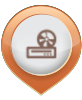
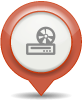
eugen_comback

diff --git a/js/60_drag-n-drop.js b/js/60_drag-n-drop.js
@@ -1,24 +1,48 @@
 define(['geomap', 'geoobjects', 'dialog', 'equipment'], function(L, objs, Dialog, Equipment){
-	$('a[data-eqgrp]').each(function(){
-	  //var li = $(this).parent()
-	  //var eqgrp = $(this).attr('data-eqgrp')
-	  //$(li).addClass('control-r-icon-link').addClass('control-r-icon-' + eqgrp) 
-	  $(this).draggable({helper: 'clone', appendTo: 'body', revert: true})
-	})
-    for(i in objs) if(i != 'view') setMap(L, i, objs, Dialog, Equipment)
-})
-
-function setMap(L, i, objs, Dialog, Equipment){
 	var Icon = L.Icon.extend({options:{
-		shadowUrl: '/img/markers/shadow.png',
+		shadowUrl: null,
 		iconSize     : [82, 100],
-		shadowSize   : [82, 15],
 		iconAnchor   : [41, 95],
-		shadowAnchor : [42, 48],
-		shadowSize   : [136, 54],
 		popupAnchor  : [0, -95]
 	  }
 	})
+    for(i in objs) if(i != 'view') setMap(L, i, objs, Dialog, Equipment, Icon)
+	$('a[data-eqgrp]').each(function(){
+	  $(this).draggable({helper: 'clone', appendTo: 'body', revert: true})
+	  $(this).dblclick(function(){
+		var page = $(this).parents('[data-role=page]')   
+		var id = $(page).attr('id').match('[a-z0-9]+$')[0]
+		var grp = $(this).attr('data-eqgrp')
+		var categ = $(this).attr('data-categ')
+		var map = objs[id].map
+		var latLng = map.getCenter()
+		setMarker(map, latLng, Equipment, Icon, categ, grp, L, objs, Dialog)
+		//var icon = new Icon({iconUrl: getIconPath('/markers/' + categ + '/' + grp) + '?inactive=true'})
+		//var marker = new L.Marker(latLng, {icon: icon,draggable: true}).addTo(map)
+	  })
+	})
+})
+
+function setMarker(map, latLng, Equipment, Icon, categ, grp, L, objs, Dialog){
+  var subPath = '/markers/' + categ + '/' + grp
+  var path = /open/.test(window.location.hostname) ? '/img' + subPath + '.png' : subPath	
+  var icon = new Icon({iconUrl: path + '?inactive=true'})
+  var activeIcon = new Icon({iconUrl: path})
+  if(!Equipment.markers) Equipment.markers = {}
+  if(!Equipment.markers[grp]) Equipment.markers[grp] = new L.LayerGroup().addTo(objs[i].map)
+  //var marker = new L.Marker(latLng, {icon: icon,draggable: true}).addTo(map)
+  var marker = new L.Marker(latLng, {icon: icon,draggable: true})
+  //marker.setActive = function(){
+  //  marker.setIcon(activeIcon)  
+  //}	  
+  Equipment.markers[grp].addLayer(marker)
+  marker.on('dblclick', function(){
+    if(marker.dialog){$(marker.dialog).dialog('open'); return}
+    Dialog(grp, objs[i], marker, activeIcon)
+  })
+}
+
+function setMap(L, i, objs, Dialog, Equipment, Icon){
 	var page = $('#page-' + i)
 	$(page).on('pageshow', function(){
 	    var mapDiv = $(page).find('.map-of-object')[0]
@@ -32,14 +56,17 @@ function setMap(L, i, objs, Dialog, Equipment){
 		  drop: function(ev, ui){
 		    if(!$(ui.helper).is('[data-eqgrp]')) return 
 			var grp = $(ui.helper).attr('data-eqgrp')
-			var categ = $(ui.helper).attr('data-categ')
 			loadWidgetsCss(grp)
-			if(!Equipment.markers) Equipment.markers = {}
-		    if(!Equipment.markers[grp]) Equipment.markers[grp] = new L.LayerGroup().addTo(objs[i].map)
-		    var icon = new Icon({iconUrl: '/markers/' + categ + '/' + grp})
-		    var marker = new L.Marker(objs[i].map.mouseEventToLatLng(ev), {icon: icon,draggable: true})
-		    Equipment.markers[grp].addLayer(marker)
-			Dialog(grp, objs[i], marker)
+			var categ = $(ui.helper).attr('data-categ')
+			var map = objs[i].map
+		    var latLng = map.mouseEventToLatLng(ev)
+		    setMarker(map, latLng, Equipment, Icon, categ, grp, L, objs, Dialog)
+			//if(!Equipment.markers) Equipment.markers = {}
+		    //if(!Equipment.markers[grp]) Equipment.markers[grp] = new L.LayerGroup().addTo(objs[i].map)
+		    //var icon = new Icon({iconUrl: '/markers/' + categ + '/' + grp})
+		    //var marker = new L.Marker(objs[i].map.mouseEventToLatLng(ev), {icon: icon,draggable: true})
+		    //Equipment.markers[grp].addLayer(marker)
+			//Dialog(grp, objs[i], marker)
 		  }
 		})
 	})

diff --git a/css/control-r-icones.css b/css/control-r-icones.css
@@ -8,8 +8,8 @@
 .control-r-icon-rain a:hover:before,
 .control-r-icon-therm-hum a:before,
 .control-r-icon-therm-hum a:hover:before,
-.control-r-icon-pir a:before,
-.control-r-icon-pir a:hover:before,
+.control-r-icon-mot-sensor a:before,
+.control-r-icon-mot-sensor a:hover:before,
 .control-r-icon-glass a:before,
 .control-r-icon-glass a:hover:before,
 .control-r-icon-meteo a:before,
@@ -34,14 +34,14 @@
 .control-r-icon-window-secur a:hover:before,
 .control-r-icon-door a:before,
 .control-r-icon-door a:hover:before,
-.control-r-icon-dim-jack a:before,
-.control-r-icon-dim-jack a:hover:before,
+.control-r-icon-dimmer a:before,
+.control-r-icon-dimmer a:hover:before,
 .control-r-icon-dim-jack-scale a:before,
 .control-r-icon-dim-jack-scale a:hover:before,
 .control-r-icon-dim-switch a:before,
 .control-r-icon-dim-switch a:hover:before,
-.control-r-icon-switch-energ a:before,
-.control-r-icon-switch-energ a:hover:before,
+.control-r-icon-group a:before,
+.control-r-icon-group a:hover:before,
 .control-r-icon-window-energ a:before,
 .control-r-icon-window-energ a:hover:before,
 .control-r-icon-conditioner-energ a:before,
@@ -216,10 +216,10 @@ a.control-r-icon-props:hover:before,
 .control-r-icon-therm-hum a:hover:before {
   background-position: -44px -176px;
 }
-.control-r-icon-pir a:before {
+.control-r-icon-mot-sensor a:before {
   background-position: 0px -220px;
 }
-.control-r-icon-pir a:hover:before {
+.control-r-icon-mot-sensor a:hover:before {
   background-position: -44px -220px;
 }
 .control-r-icon-glass a:before {
@@ -294,10 +294,10 @@ a.control-r-icon-props:hover:before,
 .control-r-icon-door a:hover:before {
   background-position: -44px -748px;
 }
-.control-r-icon-dim-jack a:before {
+.control-r-icon-dimmer a:before {
   background-position: -88px 0px;
 }
-.control-r-icon-dim-jack a:hover:before {
+.control-r-icon-dimmer a:hover:before {
   background-position: -132px 0px;
 }
 .control-r-icon-dim-jack-scale a:before {
@@ -312,10 +312,10 @@ a.control-r-icon-props:hover:before,
 .control-r-icon-dim-switch a:hover:before {
   background-position: -132px -88px;
 }
-.control-r-icon-switch-energ a:before {
+.control-r-icon-group a:before {
   background-position: -88px -132px;
 }
-.control-r-icon-switch-energ a:hover:before {
+.control-r-icon-group a:hover:before {
   background-position: -132px -132px;
 }
 .control-r-icon-window-energ a:before {

diff --git a/js/20_pages.js b/js/20_pages.js
@@ -1,15 +1,16 @@
 define(['geoobjects', 'jquery'], function(Geoobjects){
 	window.control_r_geoobjects = Geoobjects	
 	var geoPage = $('#geo-page')
+	var geoObjectsList = $('#geo-objects ul')
 	var ul = $('[data-geo-objects] ul')
 	var pageTempl = $('.page-template')[0]
 	for(i in Geoobjects){
 		if(i == 'view') continue
 		var val = Geoobjects[i]
-		//var li = $('<li></li>').appendTo(ul)
+		var li = $('<li></li>').appendTo(geoObjectsList)
 		var hash = 'page-' + i
-		//$(li).addClass('control-r-icon').addClass('control-r-icon-' + val.icon)
-		//$('<a></a>').appendTo(li).text(val.label).attr('href', '#' + hash)
+		$(li).addClass('control-r-icon').addClass('control-r-icon-' + val.icon)
+		$('<a></a>').appendTo(li).text(val.label).attr('href', '#' + hash)
 		var page = $(pageTempl).clone().insertAfter(geoPage).attr('id', hash).attr('data-title', val.label)
         createGeoObjectsList(page, Geoobjects, i)
 		var panels  = $(page).find('[data-role=panel]')
@@ -20,6 +21,7 @@ define(['geoobjects', 'jquery'], function(Geoobjects){
 		  $(anchors[j]).attr('href', '#' + id + '-' + i)
 		}
 	}
+    //$(geoObjectsList).listview('refresh')
     //$('li.control-r-icon, li[data-eqgrp]').attr('data-icon', false)
 	$('a.control-r-icon-props').css('background-color', '#1d1d1d')
     $('li').attr('data-icon', false)

diff --git a/js/61_dialog.js b/js/61_dialog.js
@@ -1,5 +1,5 @@
 define(['equipment', 'locstor'], function(Equipment, Locstor){
-	return function(grp, context, marker){
+	return function(grp, context, marker, activeIcon){
 	    var equipCount = Locstor.get('EquipmentCounter')
 		if(!equipCount) equipCount = 0
         var defaultTitle = 'Новое устройство ' + equipCount++
@@ -14,13 +14,14 @@ define(['equipment', 'locstor'], function(Equipment, Locstor){
 		}
  	    var tabs = $(dlg).find('.control-r-dialog-tabs').tabs()
         var dialog = $(dlg).dialog({width: 399, height: 330, title: defaultTitle})
+
 		var tabDivs = $(dlg).find('.control-r-dialog-tab')
 		var commonTab  = tabDivs[0]
 		var specialTab = tabDivs[1]
 		var inputs = $(dlg).find('input')
 //		var idInput   = inputs[0]	  
 		var nameInput = inputs[0]	
-                
+        marker.dialog = dialog        
 		var equipmentSelect = $(dlg).find('select')[0]
         for(i in Equipment){
           var val = Equipment[i]
@@ -32,6 +33,7 @@ define(['equipment', 'locstor'], function(Equipment, Locstor){
 		    var val = $(this).val()
 			Locstor.set(val, {})
 			$(equipmentSelect).prop('disabled', true)  
+            marker.setIcon(activeIcon)
 			var title = Equipment[val].name
 			if(title){ 
 				$(dlg).dialog('option', 'title', title);

diff --git a/js/01_main.js b/js/01_main.js
@@ -22,7 +22,7 @@ requirejs.config({
 	equipment:     '63_equipment',
 	Chart:         'vendor/Chart.min',
 	templates:     '../templates/js',
-	media_center:  '../media-center/js/main',
+	media_plus:  '../media-center/js/main',
   },
 
   shim: {

diff --git a/js/40_spin.js b/js/40_spin.js
@@ -7,7 +7,7 @@ define(['jquery_mobile'], function(){
 		theme: 'a',
 		html: ""
 	  });
-      require(['wheel', 'geomap', 'dragdrop', 'media_center'])
+      require(['wheel', 'geomap', 'dragdrop', 'media_plus'])
 	})
 })
 
